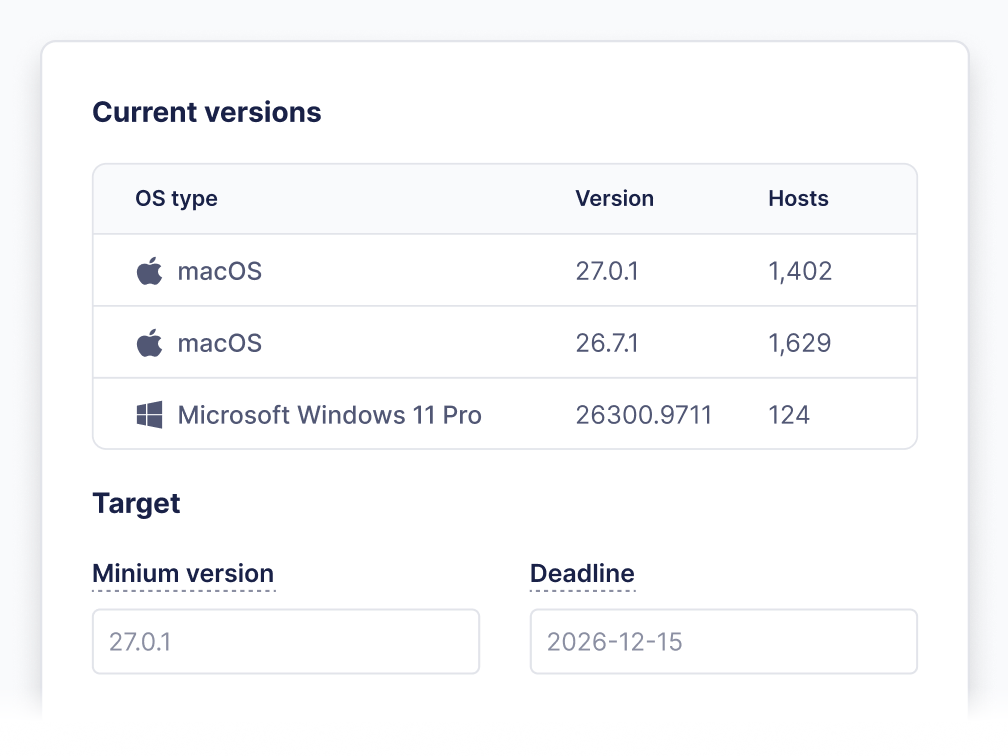
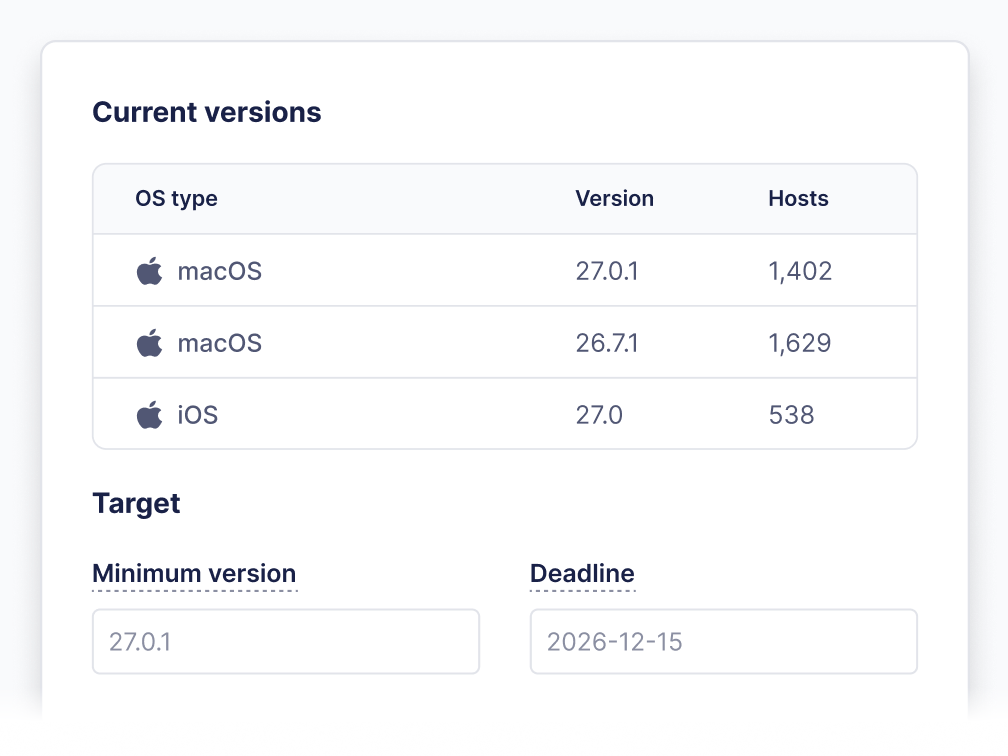
Website: Update /apple copy and OS updates image

diff --git a/website/assets/styles/pages/apple.less b/website/assets/styles/pages/apple.less
@@ -711,7 +711,7 @@
         margin-bottom: 0px;
       }
       p {
-        max-width: 480px;
+        max-width: 520px;
         color: rgba(255, 255, 255, 0.8);
       }
       [purpose='cta-button'] {
